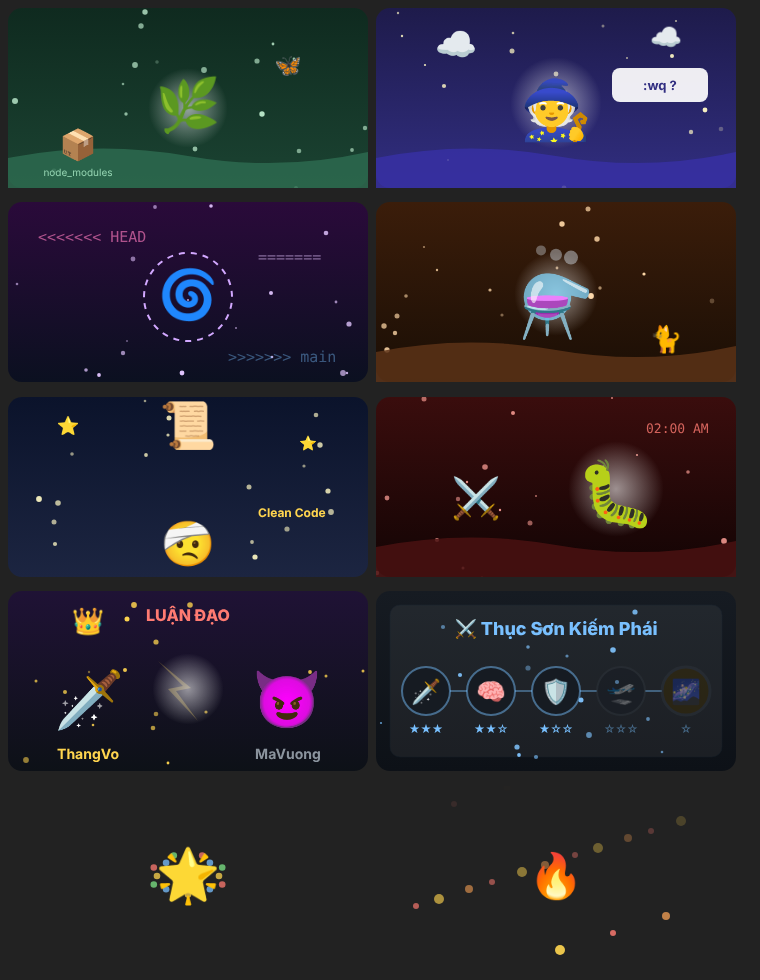
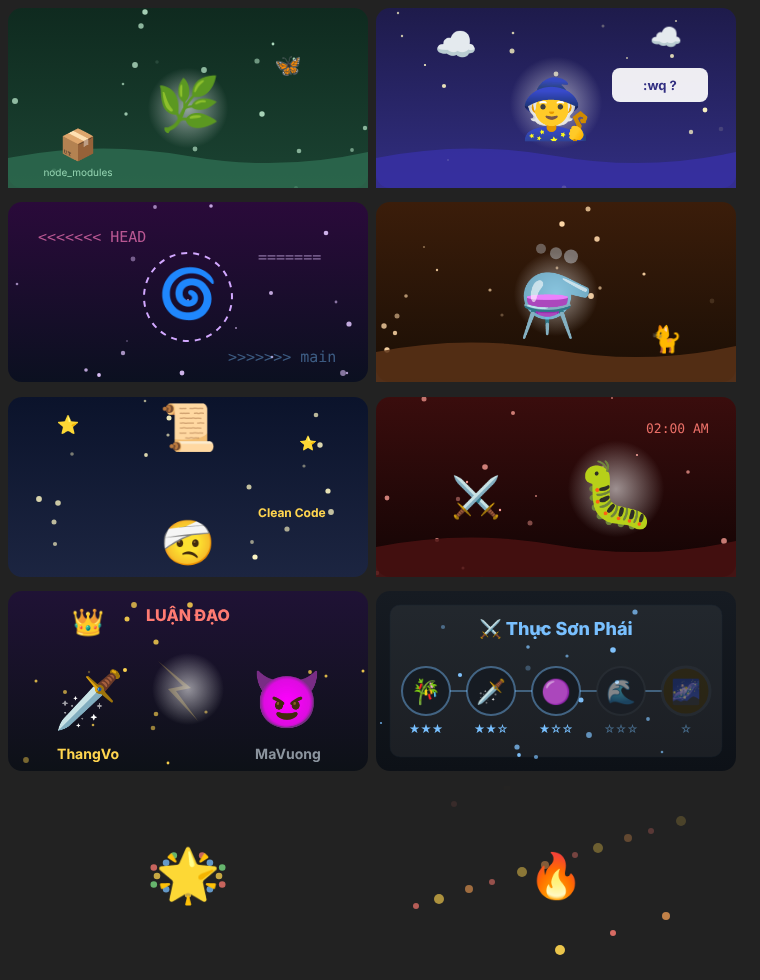
Đổi tên môn phái và công pháp theo truyện tu tiên, kiếm hiệp nổi tiếng, ghi xuất xứ
Giữ nguyên id và hiệu lực công pháp để người đã học không mất tầng.

Claude-Session: https://claude.ai/code/session_01VGETJzJ4ps8vFFpga3iL31

diff --git a/server/src/congphap.ts b/server/src/congphap.ts
@@ -5,58 +5,59 @@ import type { Player } from '../../hooks/rules.ts'
 // Hiệu lực mỗi tầng: exp, trib (bớt token thiên phạt), death (bớt tỷ lệ tử vong): ngoài trần pháp bảo.
 // kyngo: cộng cơ hội kỳ ngộ. lt: linh thạch thêm mỗi kỳ ngộ có thưởng và mỗi trận luận đạo thắng. duel: sức mạnh luận đạo.
 export type Effects = { exp?: number; trib?: number; death?: number; kyngo?: number; lt?: number; duel?: number }
-export type Skill = { name: string; icon: string; flavor: string; per: Effects; max: number; ult?: boolean }
+// from: truyện gốc mà tên công pháp, môn phái mượn về (để tỏ lòng hâm mộ, hiệu lực là của game này).
+export type Skill = { name: string; from: string; icon: string; flavor: string; per: Effects; max: number; ult?: boolean }
 export const ULT_NEEDS = 6
 
-export const TREES: Record<string, { school: string; icon: string; color: string; skills: Record<string, Skill> }> = {
-  'Kiếm Tu': { school: 'Thục Sơn Kiếm Phái', icon: '⚔', color: '#79c0ff', skills: {
-    'nhat-kiem': { name: 'Nhất Kiếm Phá Bug', icon: '🗡', flavor: 'Một nhát chém, bug bay đầu, không cần console.log.', per: { exp: 0.003 }, max: 3 },
-    'kiem-tam': { name: 'Kiếm Tâm Thông Minh', icon: '🧠', flavor: 'Nhìn đối thủ một giây là biết hắn quên viết test.', per: { duel: 4 }, max: 3 },
-    'kiem-khi': { name: 'Kiếm Khí Hộ Thể', icon: '🛡', flavor: 'Kiếm khí bao quanh người như try/catch bọc ngoài main.', per: { death: 0.0003 }, max: 3 },
-    'ngu-kiem': { name: 'Ngự Kiếm Phi Hành', icon: '🛫', flavor: 'Bay khắp giang hồ, cơ duyên tự rơi vào túi.', per: { kyngo: 0.01 }, max: 3 },
-    'van-kiem': { name: 'Vạn Kiếm Quy Tông', icon: '🌌', flavor: 'Vạn thanh kiếm hợp nhất, như vạn commit squash thành một.', per: { exp: 0.01, duel: 8 }, max: 1, ult: true },
+export const TREES: Record<string, { school: string; from: string; icon: string; color: string; skills: Record<string, Skill> }> = {
+  'Kiếm Tu': { school: 'Thục Sơn Phái', from: 'Thục Sơn Kiếm Hiệp', icon: '⚔', color: '#79c0ff', skills: {
+    'nhat-kiem': { name: 'Thanh Trúc Phong Vân Kiếm', from: 'Phàm Nhân Tu Tiên', icon: '🎋', flavor: '72 thanh kiếm tre bay quanh người, như 72 tab Chrome không bao giờ đóng.', per: { exp: 0.003 }, max: 3 },
+    'kiem-tam': { name: 'Độc Cô Cửu Kiếm', from: 'Tiếu Ngạo Giang Hồ', icon: '🗡', flavor: 'Vô chiêu thắng hữu chiêu, như code không có spec mà vẫn chạy.', per: { duel: 4 }, max: 3 },
+    'kiem-khi': { name: 'Tử Hà Thần Công', from: 'Tiếu Ngạo Giang Hồ', icon: '🟣', flavor: 'Mặt hơi tím lại, nhưng bug không chạm được vào người.', per: { death: 0.0003 }, max: 3 },
+    'ngu-kiem': { name: 'Lăng Ba Vi Bộ', from: 'Thiên Long Bát Bộ', icon: '🌊', flavor: 'Bước chân lả lướt né deadline, đi đâu cũng vấp phải cơ duyên.', per: { kyngo: 0.01 }, max: 3 },
+    'van-kiem': { name: 'Lục Mạch Thần Kiếm', from: 'Thiên Long Bát Bộ', icon: '🌌', flavor: 'Sáu đường kiếm khí từ đầu ngón tay, lúc linh lúc không, như wifi quán cà phê.', per: { exp: 0.01, duel: 8 }, max: 1, ult: true },
   } },
-  'Đan Sư': { school: 'Dược Vương Cốc', icon: '⚗', color: '#7ee787', skills: {
-    'linh-hoa': { name: 'Linh Hỏa Luyện Đan', icon: '🔥', flavor: 'Lửa vừa đủ, đan không cháy, code không nổ.', per: { trib: 0.01 }, max: 3 },
-    'bach-thao': { name: 'Bách Thảo Kinh', icon: '🌿', flavor: 'Thuộc lòng trăm loại thảo dược và trăm loại dependency.', per: { kyngo: 0.01 }, max: 3 },
-    'dan-huong': { name: 'Đan Hương Dụ Bảo', icon: '💰', flavor: 'Mùi đan thơm đến mức linh thạch tự bò tới.', per: { lt: 2 }, max: 3 },
-    'hoi-xuan': { name: 'Hồi Xuân Thuật', icon: '💚', flavor: 'Hồi sinh cả server đã sập lúc 3 giờ sáng.', per: { death: 0.0003 }, max: 3 },
-    'cuu-chuyen': { name: 'Cửu Chuyển Kim Đan', icon: '🟡', flavor: 'Chín lần luyện, một viên đan, thiên kiếp cũng phải nể.', per: { trib: 0.03, exp: 0.005 }, max: 1, ult: true },
+  'Đan Sư': { school: 'Hoàng Phong Cốc', from: 'Phàm Nhân Tu Tiên', icon: '⚗', color: '#7ee787', skills: {
+    'linh-hoa': { name: 'Thanh Liên Địa Tâm Hỏa', from: 'Đấu Phá Thương Khung', icon: '🔥', flavor: 'Dị hỏa luyện đan, thiên kiếp tới cũng bị nướng chín một nửa.', per: { trib: 0.01 }, max: 3 },
+    'bach-thao': { name: 'Chưởng Thiên Bình', from: 'Phàm Nhân Tu Tiên', icon: '🫙', flavor: 'Nhỏ một giọt lục dịch, linh thảo trăm năm chín ngay. Cơ duyên kiểu hack.', per: { kyngo: 0.01 }, max: 3 },
+    'dan-huong': { name: 'Trúc Cơ Đan', from: 'Phàm Nhân Tu Tiên', icon: '💊', flavor: 'Luyện Trúc Cơ Đan bán chợ, giàu nhanh hơn chạy dự án outsource.', per: { lt: 2 }, max: 3 },
+    'hoi-xuan': { name: 'Trường Xuân Công', from: 'Phàm Nhân Tu Tiên', icon: '🌱', flavor: 'Công pháp nhập môn, chậm mà chắc, sống dai như Hàn lão ma.', per: { death: 0.0003 }, max: 3 },
+    'cuu-chuyen': { name: 'Hư Thiên Đỉnh', from: 'Phàm Nhân Tu Tiên', icon: '🏺', flavor: 'Bảo đỉnh cả Loạn Tinh Hải tranh nhau, giờ dùng để luyện đan... và nấu mì.', per: { trib: 0.03, exp: 0.005 }, max: 1, ult: true },
   } },
-  'Trận Pháp Sư': { school: 'Thiên Cơ Các', icon: '🔯', color: '#d2a8ff', skills: {
-    'tu-linh': { name: 'Tụ Linh Trận', icon: '🌀', flavor: 'Gom linh khí bốn phương như gom log từ mười microservice.', per: { exp: 0.003 }, max: 3 },
-    'phong-ngu': { name: 'Phòng Ngự Đại Trận', icon: '🛡', flavor: 'Firewall cấp tiên giới, tâm ma cũng phải xin quyền.', per: { death: 0.0004 }, max: 3 },
-    'me-tung': { name: 'Mê Tung Trận', icon: '🌫', flavor: 'Đối thủ lạc trong trận như lạc trong regex.', per: { duel: 4 }, max: 3 },
-    'khon-ma': { name: 'Khốn Ma Trận', icon: '⛓', flavor: 'Trói thiên phạt lại, bắt nó chờ trong queue.', per: { trib: 0.01 }, max: 3 },
-    'chu-thien': { name: 'Chu Thiên Tinh Đấu Đại Trận', icon: '✨', flavor: 'Bày trận bằng cả bầu trời sao, kiến trúc sư cũng phải vỗ tay.', per: { trib: 0.02, death: 0.0005 }, max: 1, ult: true },
+  'Trận Pháp Sư': { school: 'Thanh Vân Môn', from: 'Tru Tiên', icon: '🔯', color: '#d2a8ff', skills: {
+    'tu-linh': { name: 'Thái Cực Huyền Thanh Đạo', from: 'Tru Tiên', icon: '☯', flavor: 'Ngồi thiền trên Thông Thiên Phong, ngắm mây, đợi CI chạy xong.', per: { exp: 0.003 }, max: 3 },
+    'phong-ngu': { name: 'Đại Phạn Bát Nhã', from: 'Tru Tiên', icon: '📿', flavor: 'Phật môn chân pháp, tâm tĩnh như production lúc 3 giờ sáng khi không ai deploy.', per: { death: 0.0004 }, max: 3 },
+    'me-tung': { name: 'Phệ Huyết Châu', from: 'Tru Tiên', icon: '🔴', flavor: 'Hạt châu hút máu, đánh đâu thắng đó. Hơi tà một chút, đừng kể với sư phụ.', per: { duel: 4 }, max: 3 },
+    'khon-ma': { name: 'Thần Kiếm Ngự Lôi Chân Quyết', from: 'Tru Tiên', icon: '⚡', flavor: 'Gọi sét đánh ngược lên trời, thiên kiếp cũng phải xin hàng.', per: { trib: 0.01 }, max: 3 },
+    'chu-thien': { name: 'Tru Tiên Kiếm Trận', from: 'Tru Tiên', icon: '✨', flavor: 'Bảy mạch Thanh Vân hợp lực, một kiếm phá trời, như cả team cùng fix một bug.', per: { trib: 0.02, death: 0.0005 }, max: 1, ult: true },
   } },
-  'Luyện Khí Sư': { school: 'Thần Binh Các', icon: '🔨', color: '#ffa657', skills: {
-    'thien-chuy': { name: 'Thiên Chùy Bách Luyện', icon: '🔨', flavor: 'Gõ trăm búa, ra một món, như refactor trăm lần ra một hàm.', per: { lt: 2 }, max: 3 },
-    'linh-van': { name: 'Linh Văn Khắc Ấn', icon: '🔣', flavor: 'Khắc phù văn gọn gàng như đặt tên biến tử tế.', per: { exp: 0.003 }, max: 3 },
-    'khi-linh': { name: 'Khí Linh Thông Thần', icon: '👻', flavor: 'Pháp bảo có linh hồn, thỉnh thoảng nhắc chỗ có kho báu.', per: { kyngo: 0.01 }, max: 3 },
-    'linh-giap': { name: 'Hộ Chủ Linh Giáp', icon: '🧥', flavor: 'Áo giáp tự mặc vào khi thấy chữ "deploy production".', per: { death: 0.0003 }, max: 3 },
-    'than-binh': { name: 'Thần Binh Xuất Thế', icon: '🗡', flavor: 'Thần binh ra lò, trời đất đổi màu, đồng nghiệp xin link repo.', per: { lt: 6, duel: 6 }, max: 1, ult: true },
+  'Luyện Khí Sư': { school: 'Minh Giáo', from: 'Ỷ Thiên Đồ Long Ký', icon: '🔨', color: '#ffa657', skills: {
+    'thien-chuy': { name: 'Huyền Thiết Trọng Kiếm', from: 'Thần Điêu Hiệp Lữ', icon: '🗿', flavor: 'Trọng kiếm vô phong, đại xảo bất công. Nặng quá, bán sắt vụn cũng được giá.', per: { lt: 2 }, max: 3 },
+    'linh-van': { name: 'Càn Khôn Đại Na Di', from: 'Ỷ Thiên Đồ Long Ký', icon: '🔄', flavor: 'Dời chuyển càn khôn, dời luôn bug sang module của người khác.', per: { exp: 0.003 }, max: 3 },
+    'khi-linh': { name: 'Thánh Hỏa Lệnh', from: 'Ỷ Thiên Đồ Long Ký', icon: '🔥', flavor: 'Lệnh bài từ Ba Tư, ai cầm cũng gặp chuyện lạ.', per: { kyngo: 0.01 }, max: 3 },
+    'linh-giap': { name: 'Cửu Dương Thần Công', from: 'Ỷ Thiên Đồ Long Ký', icon: '☀', flavor: 'Nội lực vô tận, bách độc bất xâm, kể cả code review gắt gỏng.', per: { death: 0.0003 }, max: 3 },
+    'than-binh': { name: 'Ỷ Thiên Kiếm · Đồ Long Đao', from: 'Ỷ Thiên Đồ Long Ký', icon: '🐉', flavor: 'Võ lâm chí tôn, bảo đao Đồ Long. Ỷ Thiên bất xuất, thùy dữ tranh phong?', per: { lt: 6, duel: 6 }, max: 1, ult: true },
   } },
-  'Phù Tu': { school: 'Long Hổ Sơn', icon: '📜', color: '#f2cc60', skills: {
-    'thien-loi': { name: 'Thiên Lôi Phù', icon: '⚡', flavor: 'Dán lên đối thủ, sét đánh trúng như CI đỏ lúc sắp merge.', per: { duel: 4 }, max: 3 },
-    'tam-bao': { name: 'Tầm Bảo Phù', icon: '🧭', flavor: 'Lá bùa chỉ đường tới cơ duyên, chính xác hơn Google Maps.', per: { kyngo: 0.015 }, max: 3 },
-    'ho-than': { name: 'Hộ Thân Phù', icon: '🧧', flavor: 'Dán trên laptop, bug cũng phải đi đường vòng.', per: { death: 0.0003 }, max: 3 },
-    'tu-linh-phu': { name: 'Tụ Linh Phù', icon: '🪄', flavor: 'Hút linh khí vào người như hút cà phê sữa đá.', per: { exp: 0.003 }, max: 3 },
-    'van-phu': { name: 'Vạn Phù Triều Tông', icon: '🌠', flavor: 'Vạn lá bùa bay lên trời, cơ duyên rơi xuống như mưa.', per: { kyngo: 0.03, lt: 4 }, max: 1, ult: true },
+  'Phù Tu': { school: 'Thất Huyết Đồng', from: 'Quang Âm Chi Ngoại', icon: '📜', color: '#f2cc60', skills: {
+    'thien-loi': { name: 'Độc Đan', from: 'Quang Âm Chi Ngoại', icon: '🧪', flavor: 'Kẻ thù còn chưa kịp nói câu "thoại phản diện" đã trúng độc.', per: { duel: 4 }, max: 3 },
+    'tam-bao': { name: 'Thần Linh Tàn Diện', from: 'Quang Âm Chi Ngoại', icon: '🌑', flavor: 'Mảnh mặt thần linh treo trên trời, nhìn lâu thì thấy cơ duyên (hoặc phát điên).', per: { kyngo: 0.015 }, max: 3 },
+    'ho-than': { name: 'Tử Sắc Thủy Tinh', from: 'Quang Âm Chi Ngoại', icon: '🔮', flavor: 'Viên thủy tinh tím tự chữa thương, tiện hơn bảo hiểm y tế công ty.', per: { death: 0.0003 }, max: 3 },
+    'tu-linh-phu': { name: 'Hải Sơn Quyết', from: 'Quang Âm Chi Ngoại', icon: '🏔', flavor: 'Công pháp nhặt được ở khu ổ chuột, ai ngờ tu nhanh hơn hàng chính hãng.', per: { exp: 0.003 }, max: 3 },
+    'van-phu': { name: 'Cấm Chế Chi Đạo', from: 'Tiên Nghịch', icon: '🌠', flavor: 'Vạn đạo cấm chế phủ kín trời đất, như .gitignore của vũ trụ.', per: { kyngo: 0.03, lt: 4 }, max: 1, ult: true },
   } },
-  'Thể Tu': { school: 'Kim Cang Tự', icon: '💪', color: '#ff7b72', skills: {
-    'dong-bi': { name: 'Đồng Bì Thiết Cốt', icon: '🪨', flavor: 'Da đồng xương sắt, ngồi code 12 tiếng không đau lưng.', per: { death: 0.0004 }, max: 3 },
-    'long-tuong': { name: 'Long Tượng Bàn Nhược', icon: '🐘', flavor: 'Sức mười rồng mười voi, push một lần 200 file.', per: { duel: 5 }, max: 3 },
-    'toi-cot': { name: 'Luyện Thể Tôi Cốt', icon: '🔥', flavor: 'Tôi luyện thân thể bằng lửa thiên phạt, càng đánh càng cứng.', per: { trib: 0.01 }, max: 3 },
-    'khi-huyet': { name: 'Khí Huyết Như Hồng', icon: '🩸', flavor: 'Khí huyết dồi dào, gõ phím nhanh như gió.', per: { exp: 0.003 }, max: 3 },
-    'bat-diet': { name: 'Bất Diệt Kim Thân', icon: '🌟', flavor: 'Thân vàng bất hoại, thiên kiếp đánh xong còn xin lỗi.', per: { death: 0.001, trib: 0.02 }, max: 1, ult: true },
+  'Thể Tu': { school: 'Tàn Lão Thôn', from: 'Mục Thần Ký', icon: '💪', color: '#ff7b72', skills: {
+    'dong-bi': { name: 'Bá Thể Tam Đan Công', from: 'Mục Thần Ký', icon: '🪨', flavor: 'Ba đan điền cùng luyện, đánh mãi không chết, như process zombie.', per: { death: 0.0004 }, max: 3 },
+    'long-tuong': { name: 'Hàng Long Thập Bát Chưởng', from: 'Anh Hùng Xạ Điêu', icon: '🐲', flavor: 'Mười tám chưởng, chưởng nào cũng có rồng. Chiêu cuối tên là "Kháng Long Hữu Hối".', per: { duel: 5 }, max: 3 },
+    'toi-cot': { name: 'Kim Chung Tráo', from: 'Thiếu Lâm', icon: '🔔', flavor: 'Chuông vàng úp lên người, thiên kiếp đánh vào chỉ nghe "boong".', per: { trib: 0.01 }, max: 3 },
+    'khi-huyet': { name: 'Long Tượng Bát Nhã Công', from: 'Thần Điêu Hiệp Lữ', icon: '🐘', flavor: 'Sức mười rồng mười voi, push một lần 200 file.', per: { exp: 0.003 }, max: 3 },
+    'bat-diet': { name: 'Hoang Cổ Thánh Thể', from: 'Già Thiên', icon: '🌟', flavor: 'Thể chất vạn cổ hiếm có, thiên kiếp đánh xong còn xin chữ ký.', per: { death: 0.001, trib: 0.02 }, max: 1, ult: true },
   } },
-  'Ma Tu': { school: 'Huyết Ma Giáo', icon: '😈', color: '#f778ba', skills: {
-    'huyet-ma': { name: 'Huyết Ma Đại Pháp', icon: '🩸', flavor: 'Tu nhanh bất chấp, comment code là thứ của chính đạo.', per: { exp: 0.004 }, max: 3 },
-    'thon-phe': { name: 'Thôn Phệ Ma Công', icon: '🌑', flavor: 'Nuốt cả linh thạch lẫn deadline của người khác.', per: { lt: 2 }, max: 3 },
-    'ma-anh': { name: 'Ma Ảnh Mê Tung', icon: '👤', flavor: 'Bóng ma lướt qua, đối thủ tưởng mình bị đổi branch.', per: { duel: 5 }, max: 3 },
-    'khe-uoc': { name: 'Tâm Ma Khế Ước', icon: '📜', flavor: 'Ký hợp đồng với tâm ma, đổi lấy chút may mắn (điều khoản dài 40 trang).', per: { kyngo: 0.01 }, max: 3 },
-    'thien-ma': { name: 'Thiên Ma Giải Thể', icon: '💀', flavor: 'Đốt cháy giới hạn, EXP tăng vọt. Bảo hiểm không chi trả.', per: { exp: 0.012 }, max: 1, ult: true },
+  'Ma Tu': { school: 'Nhật Nguyệt Thần Giáo', from: 'Tiếu Ngạo Giang Hồ', icon: '😈', color: '#f778ba', skills: {
+    'huyet-ma': { name: 'Hấp Tinh Đại Pháp', from: 'Tiếu Ngạo Giang Hồ', icon: '🌀', flavor: 'Hút công lực người khác, như copy code từ Stack Overflow không ghi nguồn.', per: { exp: 0.004 }, max: 3 },
+    'thon-phe': { name: 'Hóa Công Đại Pháp', from: 'Thiên Long Bát Bộ', icon: '🫗', flavor: 'Làm tan công lực đối thủ, tiện tay nhặt luôn linh thạch rơi.', per: { lt: 2 }, max: 3 },
+    'ma-anh': { name: 'Cửu Âm Bạch Cốt Trảo', from: 'Anh Hùng Xạ Điêu', icon: '🦴', flavor: 'Năm ngón tay xuyên đá, xuyên luôn cả firewall.', per: { duel: 5 }, max: 3 },
+    'khe-uoc': { name: 'Quỳ Hoa Bảo Điển', from: 'Tiếu Ngạo Giang Hồ', icon: '🌻', flavor: 'Muốn luyện thần công, trước hết phải... thôi, đừng hỏi. Cơ duyên nào cũng có giá.', per: { kyngo: 0.01 }, max: 3 },
+    'thien-ma': { name: 'Đại Dục Thiên Ma Kinh', from: 'Mục Thần Ký', icon: '💀', flavor: 'Ma kinh tối thượng, EXP tăng vọt. Bảo hiểm không chi trả.', per: { exp: 0.012 }, max: 1, ult: true },
   } },
 }
 const DEFAULT_TREE = TREES['Kiếm Tu']
@@ -105,8 +106,8 @@ export function treeView(st: { player: Player; congPhap?: CongPhap }) {
   const t = treeOf(st.player.cls)
   const cp = congPhapOf(st)
   return {
-    school: t.school, icon: t.icon, color: t.color, points: cp.points, spent: spentOf(cp), ultNeeds: ULT_NEEDS,
-    skills: Object.entries(t.skills).map(([id, s]) => ({ id, name: s.name, icon: s.icon, flavor: s.flavor, desc: describe(s.per), max: s.max, ult: !!s.ult, n: cp.learned[id] ?? 0 })),
+    school: t.school, schoolFrom: t.from, icon: t.icon, color: t.color, points: cp.points, spent: spentOf(cp), ultNeeds: ULT_NEEDS,
+    skills: Object.entries(t.skills).map(([id, s]) => ({ id, name: s.name, from: s.from, icon: s.icon, flavor: s.flavor, desc: describe(s.per), max: s.max, ult: !!s.ult, n: cp.learned[id] ?? 0 })),
   }
 }
 
@@ -120,8 +121,8 @@ export function learn(st: { player: Player; congPhap?: CongPhap }, id: string): 
   if (s.ult && spentOf(cp) < ULT_NEEDS) return { error: `🔒 Tuyệt kỹ ${s.icon} ${s.name} cần tu đủ ${ULT_NEEDS} tầng công pháp khác trước (mới có ${spentOf(cp)}).` }
   if (cp.points < 1) return { error: '📜 Hết điểm công pháp rồi. Đột phá thêm một bậc để nhận điểm.' }
   const text = s.ult
-    ? `🌟 TUYỆT KỸ ĐẠI THÀNH: ${s.icon} ${s.name}!\n   ${s.flavor}\n   Thiên địa chấn động, cả ${t.school} cúi đầu.`
-    : `📖 Lĩnh ngộ ${s.icon} ${s.name} tầng ${have + 1}/${s.max}!\n   ${s.flavor}`
+    ? `🌟 TUYỆT KỸ ĐẠI THÀNH: ${s.icon} ${s.name}!\n   📚 ${s.from}\n   ${s.flavor}\n   Thiên địa chấn động, cả ${t.school} cúi đầu.`
+    : `📖 Lĩnh ngộ ${s.icon} ${s.name} tầng ${have + 1}/${s.max}!\n   📚 ${s.from}\n   ${s.flavor}`
   return { congPhap: { points: cp.points - 1, learned: { ...cp.learned, [id]: have + 1 } }, text }
 }
 

diff --git a/hooks/features.ts b/hooks/features.ts
@@ -104,16 +104,16 @@ export function streakLines(n: number): string[] {
 }
 
 export type Tree = {
-  school: string; icon: string; color: string; points: number; spent: number; ultNeeds: number
-  skills: { id: string; name: string; icon: string; flavor: string; desc: string; max: number; ult: boolean; n: number }[]
+  school: string; schoolFrom?: string; icon: string; color: string; points: number; spent: number; ultNeeds: number
+  skills: { id: string; name: string; from?: string; icon: string; flavor: string; desc: string; max: number; ult: boolean; n: number }[]
 }
 export function congPhapLines(t: Tree): string[] {
-  const out = [`📖 ${t.icon} ${t.school} · Tàng Kinh Các`, `✨ Điểm công pháp: ${t.points}${t.points ? '' : ' (đột phá để nhận thêm)'} · đã tu ${t.spent} tầng`, '']
+  const out = [`📖 ${t.icon} ${t.school}${t.schoolFrom ? ` (${t.schoolFrom})` : ''} · Tàng Kinh Các`, `✨ Điểm công pháp: ${t.points}${t.points ? '' : ' (đột phá để nhận thêm)'} · đã tu ${t.spent} tầng`, '']
   for (const s of t.skills) {
     const stars = `${'★'.repeat(s.n)}${'☆'.repeat(s.max - s.n)}`
     const locked = s.ult && t.spent < t.ultNeeds && s.n === 0
     out.push(`${s.ult ? '🌟 TUYỆT KỸ ' : '   '}${s.icon} ${s.name} ${stars}${locked ? ` 🔒 cần ${t.ultNeeds} tầng` : ''}`)
-    out.push(`      ${s.desc}`, `      💬 "${s.flavor}"`)
+    out.push(`      ${s.desc}${s.from ? ` · 📚 ${s.from}` : ''}`, `      💬 "${s.flavor}"`)
     if (s.n < s.max && !locked) out.push(`      → /tutien cong-phap hoc ${s.id}`)
   }
   out.push('', '🧪 Tẩy tủy (học lại từ đầu, hoàn điểm): /tutien cong-phap tay-tuy · 20 linh thạch')
